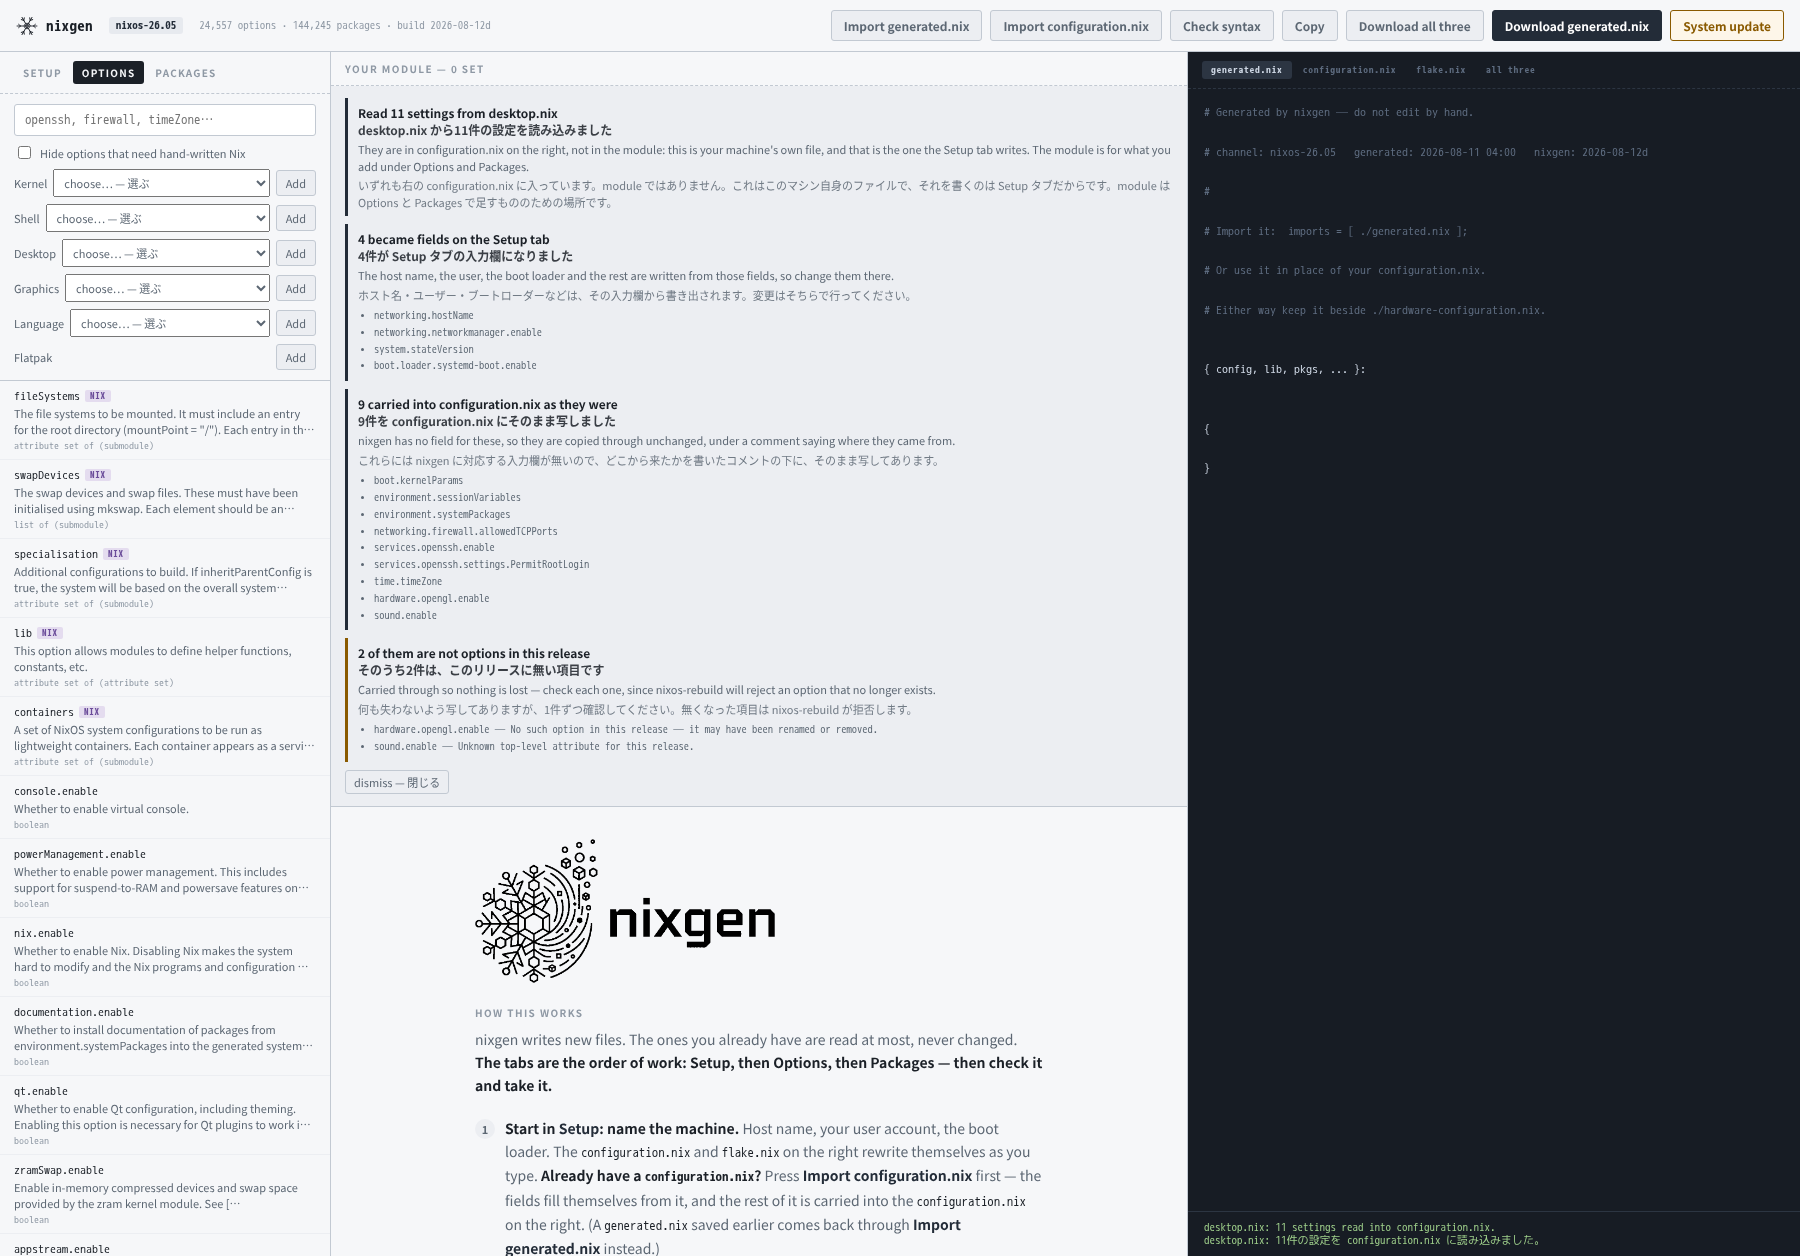
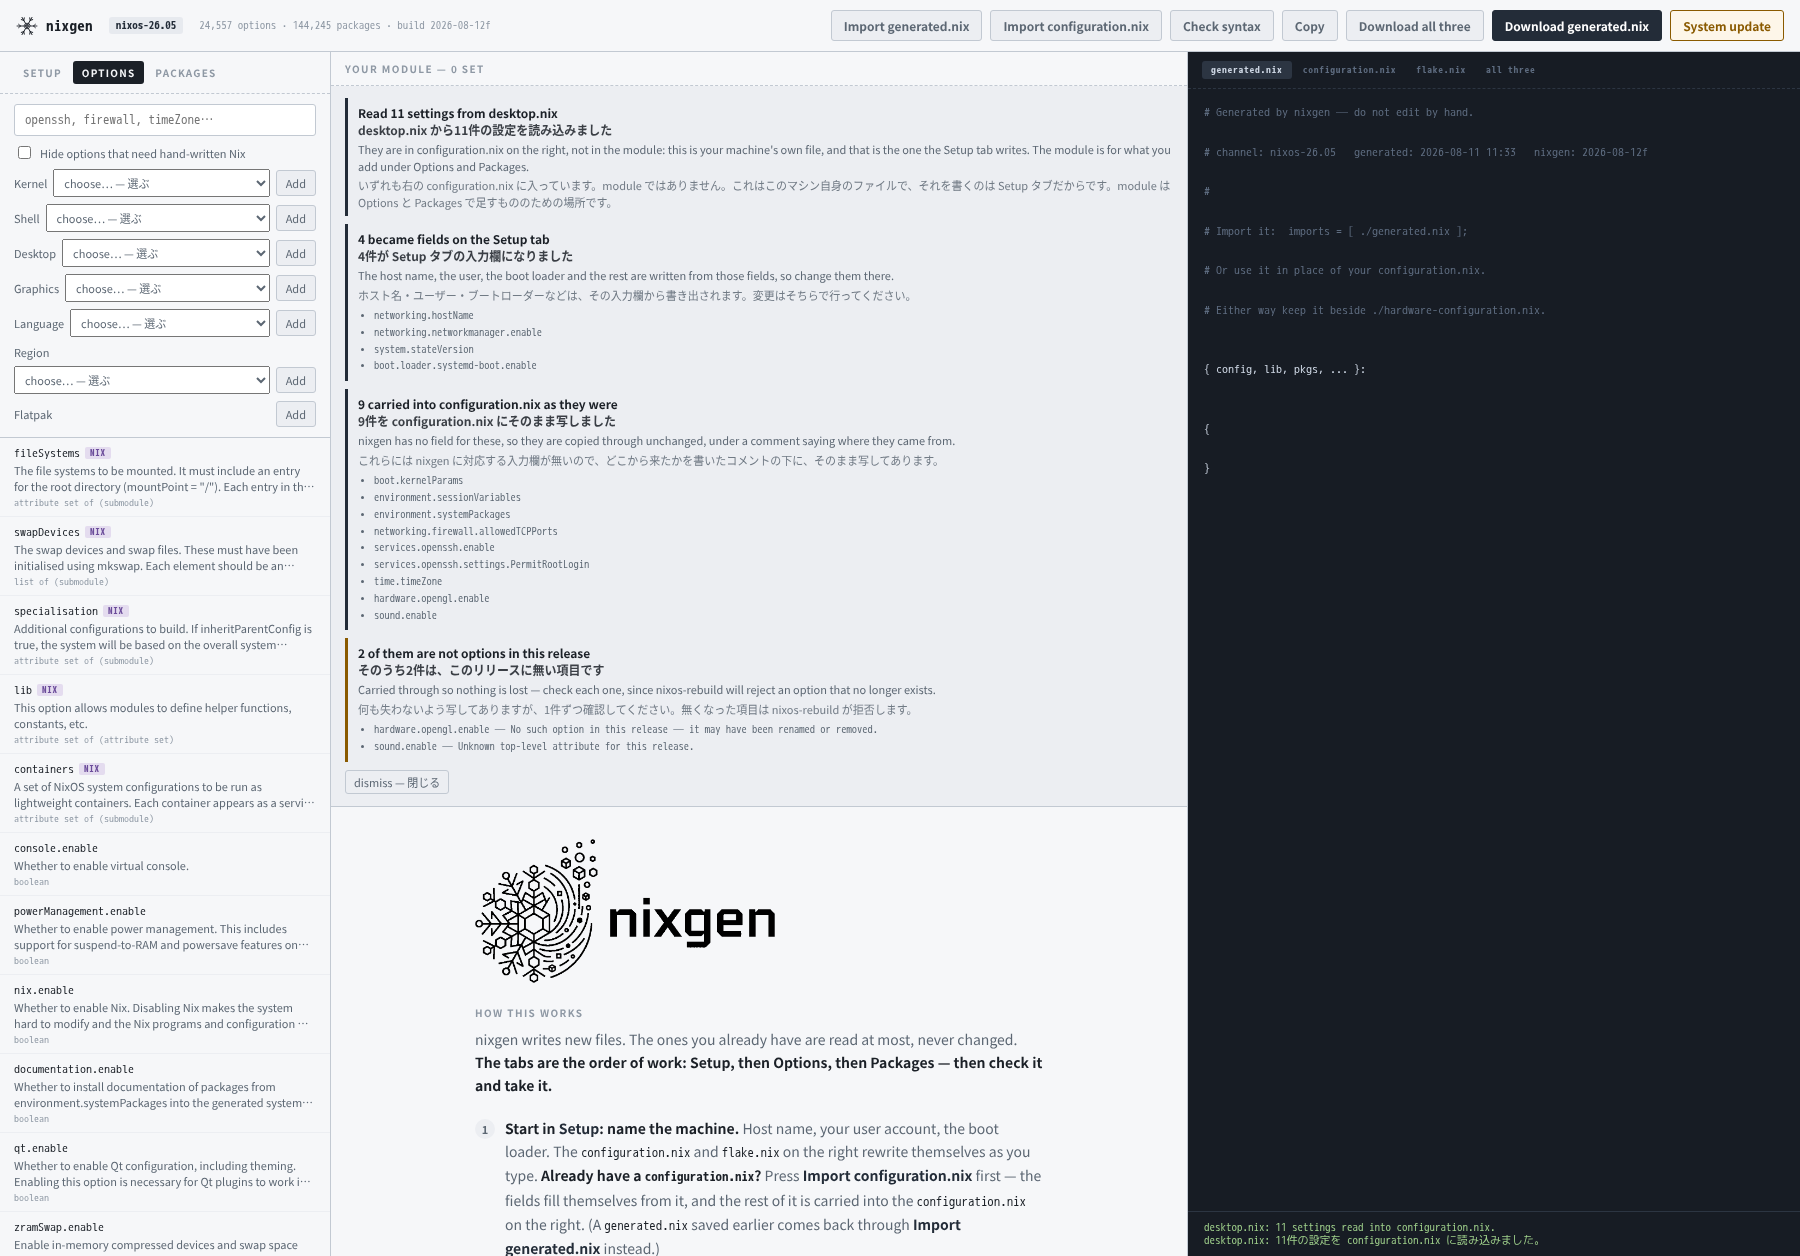
Add a Region row under Language
Eighteen places, each setting time.timeZone — which in NixOS is already
Region/City, so one setting answers both halves of the question. Picking
another replaces the value rather than adding a second line.

Separate from Language on purpose: a language is not a place, which is
why the language preset has never set a time zone and still does not,
and the test asserts that.

Every zone name was checked against the zoneinfo database rather than
typed from memory — the option takes any string without spaces, so a
wrong one is accepted by the form and surfaces later as a clock that is
quietly wrong. The generated module was evaluated as a NixOS system and
time.timeZone comes out as Asia/Tokyo.

The place names carry their own Japanese and need 238px where the shared
select gives 208, so the row wraps onto two lines — the remedy #appsline
already uses. Measured with the clone technique, not eyeballed.

Changed region(s): [[0.0, 0.2795, 0.1867, 1.0], [0.1244, 0.9936, 0.1556, 1.0]]

diff --git a/build/static/app.js b/build/static/app.js
@@ -2,7 +2,7 @@
 
 /* Shown in the header. Bump it whenever this file changes, so "the fix did not
    work" can be told apart from "the old file is still being served". */
-const BUILD = '2026-08-12d';
+const BUILD = '2026-08-12f';
 
 const $  = (s, r = document) => r.querySelector(s);
 const $$ = (s, r = document) => [...r.querySelectorAll(s)];
@@ -1573,6 +1573,53 @@ const LANGUAGES = {
         im: 'fcitx5', addons: ['fcitx5-rime'] },
 };
 
+/* Where the machine is, which the language deliberately does not decide: a
+   language is not a place, so `time.timeZone` was left out of the language
+   preset and is its own row. Every name here was checked against the zoneinfo
+   database in the store rather than typed from memory — a wrong one is
+   accepted by the form and only shows up as a clock that is silently wrong.
+
+   `time.timeZone` is `null or string without spaces`, so the form holds it as
+   a nullable and the value is a plain string. The list is short on purpose,
+   like every other preset: the search box reaches the other ~600. */
+const REGIONS = {
+  'Asia/Tokyo':          'Japan — 日本',
+  'Asia/Seoul':          'Korea — 韓国',
+  'Asia/Shanghai':       'China — 中国',
+  'Asia/Taipei':         'Taiwan — 台湾',
+  'Asia/Singapore':      'Singapore — シンガポール',
+  'Asia/Kolkata':        'India — インド',
+  'Australia/Sydney':    'Sydney — シドニー',
+  'Pacific/Auckland':    'New Zealand — ニュージーランド',
+  'Europe/London':       'UK — イギリス',
+  'Europe/Paris':        'France — フランス',
+  'Europe/Berlin':       'Germany — ドイツ',
+  'Europe/Madrid':       'Spain — スペイン',
+  'America/New_York':    'US East — アメリカ東部',
+  'America/Chicago':     'US Central — アメリカ中部',
+  'America/Denver':      'US Mountain — アメリカ山岳部',
+  'America/Los_Angeles': 'US West — アメリカ西部',
+  'America/Sao_Paulo':   'Brazil — ブラジル',
+  'UTC':                 'UTC — 協定世界時',
+};
+
+async function addRegion(zone) {
+  if (!REGIONS[zone]) return;
+  const used = await addWithValue(['time.timeZone'], zone);
+  renderEditor();
+  pushRender();
+  if (!used) {
+    return setStatus(say(
+      `This release has no time.timeZone.`,
+      `このリリースには time.timeZone がありません。`), 'bad');
+  }
+  setStatus(say(
+    `Time zone set to ${zone}. The clock and anything that stamps a time ` +
+    `follow it; your language and keyboard are set separately.`,
+    `タイムゾーンを ${zone} にしました。時計や時刻を記録するものはこれに従います。` +
+    `言語とキーボードは別に設定します。`), 'ok');
+}
+
 async function addLanguage(key) {
   const L = LANGUAGES[key];
   if (!L) return;
@@ -1713,6 +1760,11 @@ $('#btn-flatpak').addEventListener('click', addFlatpak);
 $('#btn-lang').addEventListener('click', () => {
   const key = $('#s-lang').value;
   if (key) addLanguage(key);
+});
+
+$('#btn-region').addEventListener('click', () => {
+  const zone = $('#s-region').value;
+  if (zone) addRegion(zone);
 });
 
 /* Graphics. `hardware.graphics.enable` is the part every card needs, and

diff --git a/build/static/index.html b/build/static/index.html
@@ -145,6 +145,34 @@
           </select>
           <button class="mini" id="btn-lang">Add</button>
         </div>
+        <!-- Under Language, and separate from it on purpose: a language is
+             not a place. This one row decides where the machine is, which in
+             NixOS is one setting — time.timeZone is already Region/City. -->
+        <div class="presetline" id="regionline">
+          <span>Region</span>
+          <select id="s-region" class="notranslate" translate="no">
+            <option value="">choose… — 選ぶ</option>
+            <option value="Asia/Tokyo">Japan — 日本</option>
+            <option value="Asia/Seoul">Korea — 韓国</option>
+            <option value="Asia/Shanghai">China — 中国</option>
+            <option value="Asia/Taipei">Taiwan — 台湾</option>
+            <option value="Asia/Singapore">Singapore — シンガポール</option>
+            <option value="Asia/Kolkata">India — インド</option>
+            <option value="Australia/Sydney">Sydney — シドニー</option>
+            <option value="Pacific/Auckland">New Zealand — ニュージーランド</option>
+            <option value="Europe/London">UK — イギリス</option>
+            <option value="Europe/Paris">France — フランス</option>
+            <option value="Europe/Berlin">Germany — ドイツ</option>
+            <option value="Europe/Madrid">Spain — スペイン</option>
+            <option value="America/New_York">US East — アメリカ東部</option>
+            <option value="America/Chicago">US Central — アメリカ中部</option>
+            <option value="America/Denver">US Mountain — アメリカ山岳部</option>
+            <option value="America/Los_Angeles">US West — アメリカ西部</option>
+            <option value="America/Sao_Paulo">Brazil — ブラジル</option>
+            <option value="UTC">UTC — 協定世界時</option>
+          </select>
+          <button class="mini" id="btn-region">Add</button>
+        </div>
         <!-- Nothing to choose here, so no dropdown: Flatpak is on or it is
              not. It is more than one setting, though, which is why it is a
              row rather than something to find in the search. -->

diff --git a/build/static/app.css b/build/static/app.css
@@ -135,6 +135,13 @@ main {
    itself and every name fits. */
 #appsline { flex-wrap: wrap; }
 #appsline select { flex-basis: 100%; }
+/* Region has the same problem and one difference: it does have an Add button,
+   so the select takes the whole of a second line and the button stays on the
+   first. Place names carry their own Japanese — "US Mountain — アメリカ山岳部"
+   needs 238px where the shared box gives 208 — and a closed select drops what
+   does not fit, which here would be the half a Japanese reader is using. */
+#regionline { flex-wrap: wrap; }
+#regionline > span:first-child { flex-basis: 100%; }
 .presethint { margin: 5px 0 0; font-size: 10.5px; color: var(--ink-faint); }
 
 .row {
